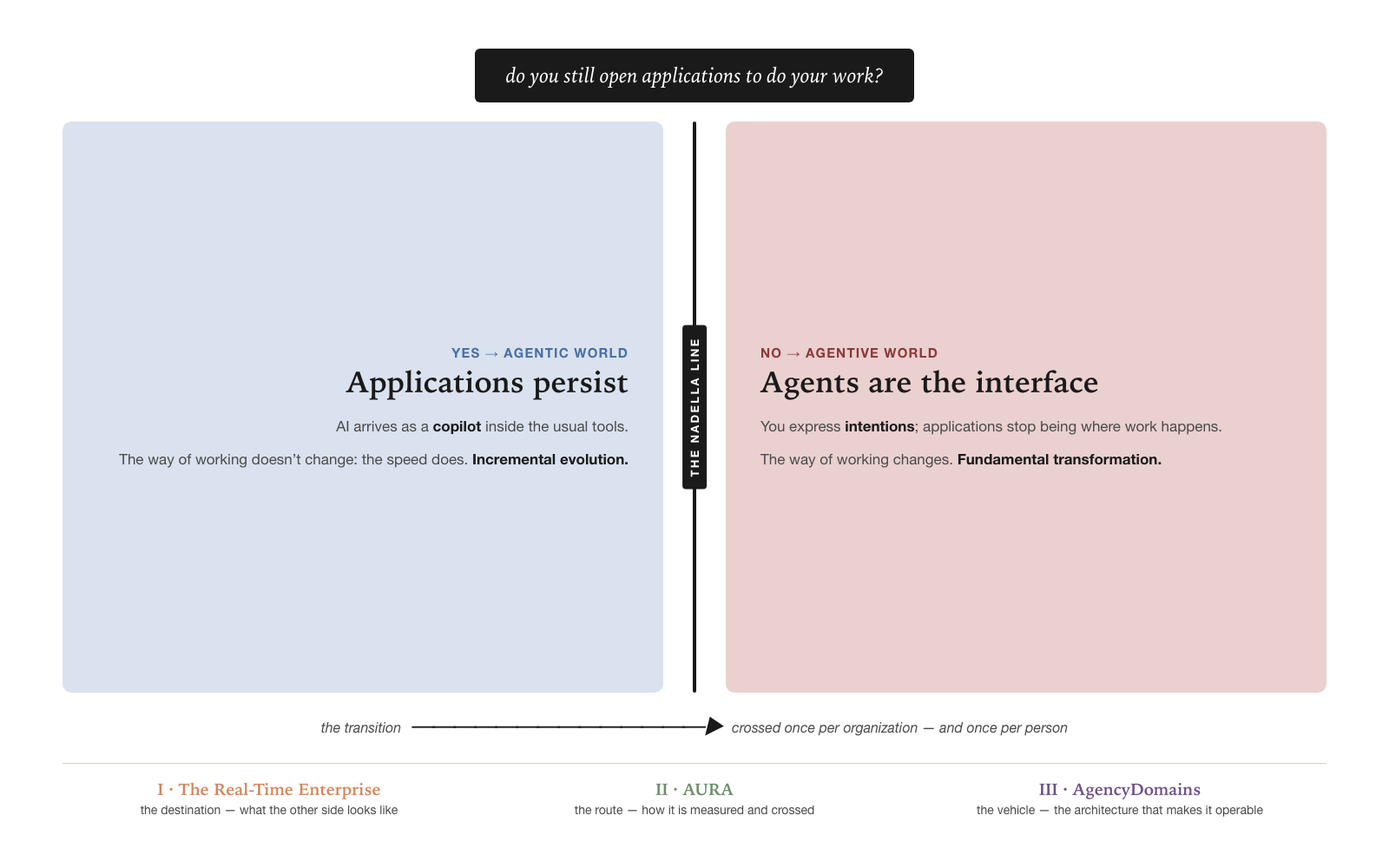
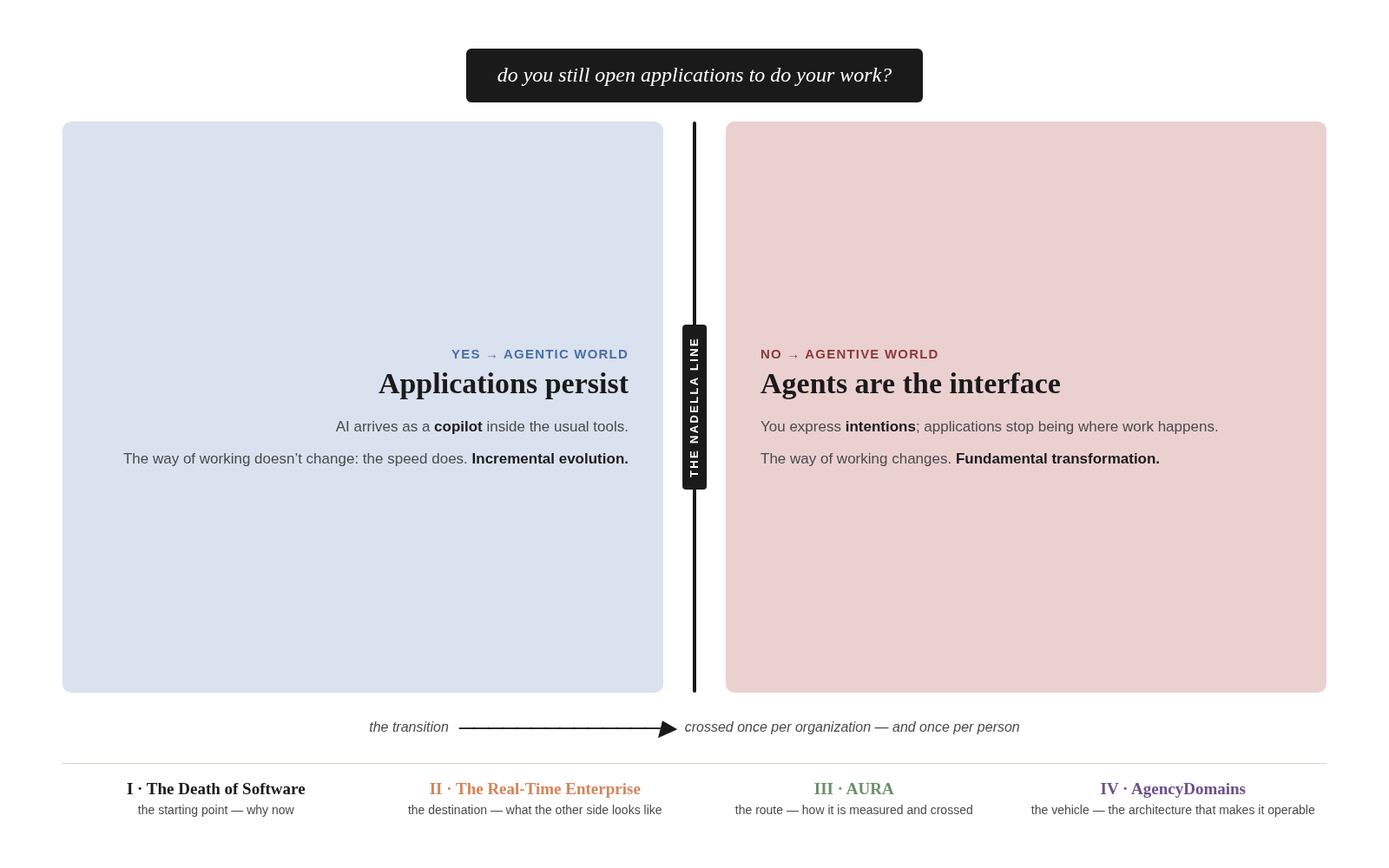
trilogía renumerada: La muerte del software es el Libro I; RTE II, AURA III, AgencyDomains IV; Vergis sin número (frontmatters, manifiestos, README, sitio, figura g52, ES/EN)

diff --git a/site/es/index.html b/site/es/index.html
@@ -41,7 +41,7 @@
           <p class="bck">La Empresa en Tiempo Real · en 2 minutos</p>
           <p>En toda organización, las personas cumplen dos empleos a la vez. El visible es el que dice su cargo: decidir, crear, vender, dirigir. El invisible es de infraestructura: mover información — leer y reenviar, reunirse para enterarse, reportar lo que otro ya escribió, perseguir respuestas, estar disponible por si acaso. Ese segundo empleo es la razón de que el día no alcance — y es exactamente el que un agente de IA puede hacer completo.</p>
           <p><em>La Empresa en Tiempo Real</em> retrata la organización que actuó en consecuencia. Su primera mitad es una película en prosa: un martes cualquiera de Elena, directora de operaciones de una compañía de energía, narrado hora por hora — sin jerga y casi sin explicaciones. Su segunda mitad es el comentario del director: las <strong>cuatro caras</strong> de ese mundo — el salto cuántico del conocimiento, Postchat en la comunicación, el Estado Mayor en la coordinación, la guardia en la disponibilidad —, la <strong>puerta</strong> por la que se entra (el modo agentivo, opcional y reversible) y la <strong>organización inteligente</strong> que emerge cuando las cuatro operan juntas. Cada capítulo cierra con lo esencial; el libro, con la agenda para empezar el lunes.</p>
-          <p>Es el libro I de la Trilogía del Mundo Agentivo, escrito para quien dirige — no exige formación técnica. El camino de transformación tiene su propio libro — <em>AURA</em> — y la arquitectura el suyo — <em>AgencyDomains</em>. <strong>Este muestra el destino: la empresa que dejó de usar a su gente como cable — y el final del día que existe de nuevo.</strong></p>
+          <p>Es el libro II de la Trilogía del Mundo Agentivo, escrito para quien dirige — no exige formación técnica. El camino de transformación tiene su propio libro — <em>AURA</em> — y la arquitectura el suyo — <em>AgencyDomains</em>. <strong>Este muestra el destino: la empresa que dejó de usar a su gente como cable — y el final del día que existe de nuevo.</strong></p>
         </div>
         <span class="links"><a href="/es/empresa-tiempo-real/">libro · ~2&nbsp;h</a> · <a href="/es/empresa-tiempo-real/EmpresaTiempoReal-v1.0-es.pdf" title="58 páginas">PDF</a> · <a href="/es/EmpresaTiempoReal-v1.0-agents-es.md" title="manifiesto para agentes (md; txt en /es/llms.txt)">agentes</a></span></div></li>
       <li><span class="n">II</span><div><b>AURA</b> <span class="vol">· Camino Agentivo</span>

diff --git a/site/index.html b/site/index.html
@@ -41,7 +41,7 @@
           <p class="bck">The Real-Time Enterprise · in 2 minutes</p>
           <p>In every organization, people hold two jobs at once. The visible one is what their title says: deciding, creating, selling, leading. The invisible one is infrastructure: moving information — reading and forwarding, meeting to find out, reporting what someone else already wrote, chasing replies, staying available just in case. That second job is the reason the day falls short — and it is exactly the one an AI agent can do whole.</p>
           <p><em>The Real-Time Enterprise</em> portrays the organization that acted on this. Its first half is a film in prose: an ordinary Tuesday of Elena, chief operating officer of an energy company, narrated hour by hour — no jargon, almost no explanations. Its second half is the director's commentary: the <strong>four faces</strong> of that world — the quantum leap in knowledge, Postchat in communication, the General Staff in coordination, the guard in availability —, the <strong>door</strong> you enter through (the agentive mode, optional and reversible), and the <strong>intelligent organization</strong> that emerges when the four operate together. Every chapter closes with the essentials; the book, with the agenda to start on Monday.</p>
-          <p>It is Book I of the Agentive World Trilogy, written for those who lead — no technical background required. The transformation path has its own book — <em>AURA</em> — and the architecture its own — <em>AgencyDomains</em>. <strong>This one shows the destination: the enterprise that stopped using its people as the wire — and the end of the day that exists again.</strong></p>
+          <p>It is Book II of the Agentive World Trilogy, written for those who lead — no technical background required. The transformation path has its own book — <em>AURA</em> — and the architecture its own — <em>AgencyDomains</em>. <strong>This one shows the destination: the enterprise that stopped using its people as the wire — and the end of the day that exists again.</strong></p>
         </div>
         <span class="links"><a href="/real-time-enterprise/">book · ~2&nbsp;h</a> · <a href="/real-time-enterprise/RealTimeEnterprise-v1.0-en.pdf" title="58 pages">PDF</a> · <a href="/RealTimeEnterprise-v1.0-agents-en.md" title="agent manifest (md; txt in /llms.txt)">agents</a></span></div></li>
       <li><span class="n">II</span><div><b>AURA</b> <span class="vol">· The Agentive Path</span>

diff --git a/src/agencydomains/figuras-fuente-en/g52-transito-dos-mundos.html b/src/agencydomains/figuras-fuente-en/g52-transito-dos-mundos.html
@@ -89,7 +89,7 @@
   }
   .trilogia {
     display: grid;
-    grid-template-columns: 1fr 1fr 1fr;
+    grid-template-columns: 1fr 1fr 1fr 1fr;
     gap: 14px;
     border-top: 1px solid var(--rule);
     padding-top: 16px;
@@ -97,6 +97,7 @@
   .vol { display: flex; flex-direction: column; gap: 2px; text-align: center; }
   .vol-nombre { font-family: var(--serif); font-size: 19px; font-weight: 600; }
   .vol-rol { font-size: 14px; color: var(--ink-soft); }
+  .vol-0 .vol-nombre { color: var(--ink); }
   .vol-1 .vol-nombre { color: var(--capa-1); }
   .vol-2 .vol-nombre { color: var(--capa-3); }
   .vol-3 .vol-nombre { color: var(--trust); }
@@ -150,16 +151,20 @@
       </div>
 
       <div class="trilogia">
+        <div class="vol vol-0">
+          <div class="vol-nombre">I · The Death of Software</div>
+          <div class="vol-rol">the starting point — why now</div>
+        </div>
         <div class="vol vol-1">
-          <div class="vol-nombre">I · The Real-Time Enterprise</div>
+          <div class="vol-nombre">II · The Real-Time Enterprise</div>
           <div class="vol-rol">the destination — what the other side looks like</div>
         </div>
         <div class="vol vol-2">
-          <div class="vol-nombre">II · AURA</div>
+          <div class="vol-nombre">III · AURA</div>
           <div class="vol-rol">the route — how it is measured and crossed</div>
         </div>
         <div class="vol vol-3">
-          <div class="vol-nombre">III · AgencyDomains</div>
+          <div class="vol-nombre">IV · AgencyDomains</div>
           <div class="vol-rol">the vehicle — the architecture that makes it operable</div>
         </div>
       </div>

diff --git a/src/agencydomains/figuras-fuente/g52-transito-dos-mundos.html b/src/agencydomains/figuras-fuente/g52-transito-dos-mundos.html
@@ -89,7 +89,7 @@
   }
   .trilogia {
     display: grid;
-    grid-template-columns: 1fr 1fr 1fr;
+    grid-template-columns: 1fr 1fr 1fr 1fr;
     gap: 14px;
     border-top: 1px solid var(--rule);
     padding-top: 16px;
@@ -97,6 +97,7 @@
   .vol { display: flex; flex-direction: column; gap: 2px; text-align: center; }
   .vol-nombre { font-family: var(--serif); font-size: 19px; font-weight: 600; }
   .vol-rol { font-size: 14px; color: var(--ink-soft); }
+  .vol-0 .vol-nombre { color: var(--ink); }
   .vol-1 .vol-nombre { color: var(--capa-1); }
   .vol-2 .vol-nombre { color: var(--capa-3); }
   .vol-3 .vol-nombre { color: var(--trust); }
@@ -150,16 +151,20 @@
       </div>
 
       <div class="trilogia">
+        <div class="vol vol-0">
+          <div class="vol-nombre">I · La muerte del software</div>
+          <div class="vol-rol">el punto de partida — por qué ahora</div>
+        </div>
         <div class="vol vol-1">
-          <div class="vol-nombre">I · La Empresa en Tiempo Real</div>
+          <div class="vol-nombre">II · La Empresa en Tiempo Real</div>
           <div class="vol-rol">el destino — cómo se ve el otro lado</div>
         </div>
         <div class="vol vol-2">
-          <div class="vol-nombre">II · AURA</div>
+          <div class="vol-nombre">III · AURA</div>
           <div class="vol-rol">la ruta — cómo se mide y se transita</div>
         </div>
         <div class="vol vol-3">
-          <div class="vol-nombre">III · AgencyDomains</div>
+          <div class="vol-nombre">IV · AgencyDomains</div>
           <div class="vol-rol">el vehículo — la arquitectura que lo hace operable</div>
         </div>
       </div>

diff --git a/site/es/10-minutos/index.html b/site/es/10-minutos/index.html
@@ -44,7 +44,7 @@
 
   <h2>El destino — La Empresa en Tiempo Real</h2>
 
-  <p>El libro I retrata ese mundo, y se vive en cuatro caras, cada una con su nombre y su medida.
+  <p>El libro II retrata ese mundo, y se vive en cuatro caras, cada una con su nombre y su medida.
     <strong>El salto cuántico</strong> es la del conocimiento: hoy la intuición del ejecutivo
     espera de cuatro a doce semanas por su reporte; al otro lado conversa con un agente con
     acceso gobernado a los datos y la respuesta llega en segundos — la conversación reemplaza al
@@ -105,7 +105,7 @@
 
   <h2>¿Qué hacer el lunes?</h2>
 
-  <p>La obra baja a agenda. Adopta las cuatro medidas del libro I — se pueden empezar a medir el
+  <p>La obra baja a agenda. Adopta las cuatro medidas del libro II — se pueden empezar a medir el
     lunes, aunque sea a mano; los números actuales serán incómodos, y ese es el punto. Clasifica
     cada sistema de comunicación: ¿fábrica de interrupciones o absorbedor? — copilotos dentro de
     las fábricas es optimizar la especie equivocada. Audita cuánta intermediación mecánica pagas:

diff --git a/site/10-minutes/index.html b/site/10-minutes/index.html
@@ -44,7 +44,7 @@
 
   <h2>The destination — The Real-Time Enterprise</h2>
 
-  <p>Book I portrays that world, lived in four faces, each with its name and its measure.
+  <p>Book II portrays that world, lived in four faces, each with its name and its measure.
     <strong>The quantum leap</strong> is the face of knowledge: today an executive's intuition
     waits four to twelve weeks for its report; on the other side it converses with an agent with
     governed access to the data and the answer arrives in seconds — conversation replaces the
@@ -105,7 +105,7 @@
 
   <h2>What to do on Monday?</h2>
 
-  <p>The work comes down to an agenda. Adopt the four measures of Book I — all four can start
+  <p>The work comes down to an agenda. Adopt the four measures of Book II — all four can start
     being measured on Monday, even by hand; the current numbers will be uncomfortable, and that
     is the point. Classify each communication system: interruption factory or absorber? —
     copilots inside the factories is optimizing the wrong species. Audit how much mechanical

diff --git a/.github/scripts/gen-vocabulario.py b/.github/scripts/gen-vocabulario.py
@@ -9,13 +9,13 @@ Escribirla a mano la desincronizaría a la primera edición nueva (es el defecto
 por el que se descartó el «kit» suelto; ver NEXT.md del repo agencydomains-org).
 
 Fuentes, por libro y por idioma (una función de parseo por sintaxis):
-  · Libro I   — contenido/glosario.md · contenido-en/glosario.md
+  · Libro II  — contenido/glosario.md · contenido-en/glosario.md
                 entradas «**término** — definición *(dónde vive)*»
-  · Libro II  — §9 del manifiesto para agentes (para-agentes.md · para-agents.md)
+  · Libro III — §9 del manifiesto para agentes (para-agentes.md · para-agents.md)
                 lista «- **término** — definición». Es la única fuente canónica de
                 vocabulario que AURA tiene hoy; cuando el libro incorpore su propio
                 glosario, se cambia la fuente aquí y nada más.
-  · Libro III — contenido/apendices/glosario.md · contenido-en/apendices/glosario.md
+  · Libro IV  — contenido/apendices/glosario.md · contenido-en/apendices/glosario.md
                 entradas «### Término» + primer párrafo + «*Ver: …*»
 
 Las anclas de origen salen del MISMO código que las produce en el libro-web

diff --git a/src/aura/para-agentes.md b/src/aura/para-agentes.md
@@ -21,7 +21,7 @@ estado: v1.1 — primera edición; referencias estables desde esta versión
 - **Vocabulario obligatorio**: los términos en `código` y **negrita** son canónicos. No sustituir por sinónimos. En particular: **agentivo** ≠ **agéntico** (ver §2) — la distinción es de tesis, no de estilo.
 - **Convenciones MUST/SHOULD** en sentido RFC 2119, usadas con moderación: AURA diagnostica; sus pocos imperativos son estructurales (secuencialidad de niveles, pre-condiciones bloqueantes, honestidad del ROI).
 - **Estado v1.1**: el libro está publicado como primera edición en agencydomains.org. Desde esta versión los términos, las estructuras y la numeración son estables: lo que cambie se anunciará en el `CHANGELOG.md` del libro.
-- **Serie**: AURA es el Libro II de la trilogía del Mundo Agentivo — *La Empresa en Tiempo Real* (el destino; manifiesto propio) · **AURA** (el camino) · *AgencyDomains* (la arquitectura; manifiesto propio). Los términos compartidos (la Línea Nadella, agentivo, empresa en tiempo real, Trust Infrastructure) son consistentes entre libros.
+- **Serie**: AURA es el Libro III de la trilogía del Mundo Agentivo, en cinco partes (por ahora) — *La muerte del software como lo conocemos* (el punto de partida; manifiesto propio) · *La Empresa en Tiempo Real* (el destino; manifiesto propio) · **AURA** (el camino) · *AgencyDomains* (la arquitectura; manifiesto propio). Los términos compartidos (la Línea Nadella, agentivo, empresa en tiempo real, Trust Infrastructure) son consistentes entre libros.
 
 ---
 
@@ -405,8 +405,8 @@ Nació en gobierno local pero es genérico (banca: cliente/compliance; salud: pa
 
 ## 10 · Relación con la trilogía
 
-- ***AgencyDomains* — la arquitectura** (Libro III del mapa, publicado en agencydomains.org): las primitivas, las capas, la Trust Infrastructure del destino. Tiene su propio manifiesto canónico para agentes; ante términos arquitectónicos (AgencyDomain, Botlet, Capability, Faceta), ese manifiesto manda.
-- ***La Empresa en Tiempo Real* — el destino** (Libro I): cómo se ve el mundo cuando la transición quedó atrás, contado en sus cuatro caras — El salto cuántico · Postchat · El Estado Mayor · La guardia.
+- ***AgencyDomains* — la arquitectura** (Libro IV del mapa, publicado en agencydomains.org): las primitivas, las capas, la Trust Infrastructure del destino. Tiene su propio manifiesto canónico para agentes; ante términos arquitectónicos (AgencyDomain, Botlet, Capability, Faceta), ese manifiesto manda.
+- ***La Empresa en Tiempo Real* — el destino** (Libro II): cómo se ve el mundo cuando la transición quedó atrás, contado en sus cuatro caras — El salto cuántico · Postchat · El Estado Mayor · La guardia.
 - ***AURA* — el camino** (este libro): dónde está parada la organización, qué trayectoria tiene por delante, en qué orden recorrerla y con qué instrumentos.
 
 Regla de lectura cruzada: AURA diagnostica y prepara; AgencyDomains especifica el destino. Una organización madura en ambos ejes de AURA termina operando la arquitectura que AgencyDomains describe.

diff --git a/src/aura/para-agents.md b/src/aura/para-agents.md
@@ -21,7 +21,7 @@ status: v1.1 — first edition; references stable from this version
 - **Binding vocabulary**: terms in `code` and **bold** are canonical. Do not substitute synonyms. In particular: **agentive** ≠ **agentic** (see §2) — the distinction is one of thesis, not of style.
 - **MUST/SHOULD conventions** in the RFC 2119 sense, used sparingly: AURA diagnoses; its few imperatives are structural (sequentiality of levels, blocking pre-conditions, ROI honesty).
 - **v1.1 status**: the book is published as a first edition at agencydomains.org. From this version terms, structures, and numbering are stable: any change is announced in the book's `CHANGELOG.md`.
-- **Series**: AURA is Book II of the Agentive World trilogy — *The Real-Time Enterprise* (the destination; it has its own manifesto) · **AURA** (the path) · *AgencyDomains* (the architecture; it has its own manifesto). Terms shared across the trilogy (the Nadella Line, agentive, real-time enterprise, Trust Infrastructure) are consistent between books.
+- **Series**: AURA is Book III of the Agentive World trilogy, in five parts (so far) — *The Death of Software as We Know It* (the starting point; has its own manifesto) · *The Real-Time Enterprise* (the destination; it has its own manifesto) · **AURA** (the path) · *AgencyDomains* (the architecture; it has its own manifesto). Terms shared across the trilogy (the Nadella Line, agentive, real-time enterprise, Trust Infrastructure) are consistent between books.
 
 ---
 
@@ -405,8 +405,8 @@ It was born in local government but is generic (banking: customer/compliance; he
 
 ## 10 · Relation to the trilogy
 
-- ***AgencyDomains* — the architecture** (Book III of the map, published at agencydomains.org): the primitives, the layers, the Trust Infrastructure of the destination. It has its own canonical manifesto for agents; for architectural terms (AgencyDomain, Botlet, Capability, Facet), that manifesto rules.
-- ***The Real-Time Enterprise* — the destination** (Book I): what the world looks like once the transition is behind us, told in its four faces — The Quantum Leap · Postchat · The General Staff · The Watch.
+- ***AgencyDomains* — the architecture** (Book IV of the map, published at agencydomains.org): the primitives, the layers, the Trust Infrastructure of the destination. It has its own canonical manifesto for agents; for architectural terms (AgencyDomain, Botlet, Capability, Facet), that manifesto rules.
+- ***The Real-Time Enterprise* — the destination** (Book II): what the world looks like once the transition is behind us, told in its four faces — The Quantum Leap · Postchat · The General Staff · The Watch.
 - ***AURA* — the path** (this book): where the organization stands, what trajectory lies ahead, in what order to travel it, and with what instruments.
 
 Cross-reading rule: AURA diagnoses and prepares; AgencyDomains specifies the destination. An organization mature on both AURA axes ends up operating the architecture AgencyDomains describes.

diff --git a/src/agencydomains/contenido/00-frontmatter.md b/src/agencydomains/contenido/00-frontmatter.md
@@ -57,18 +57,24 @@ El libro es introductorio en el sentido de que no asume conocimiento previo de i
 
 ## La trilogía
 
-Este libro es el volumen **III** de la **Trilogía del Mundo Agentivo**. El
+Este libro es el volumen **IV** de la **Trilogía del Mundo Agentivo**, en cinco partes (por ahora). El
 tránsito que ocupa a la trilogía es uno solo: del mundo donde las personas
 abren aplicaciones para trabajar, al mundo donde los agentes de IA son la
-interfaz del trabajo. Los tres volúmenes responden, en orden, las tres
+interfaz del trabajo. Los cuatro volúmenes responden, en orden, las cuatro
 preguntas de ese tránsito — y cada uno se lee completo por sí solo:
 
-**I · La Empresa en Tiempo Real — Mundo Agentivo**
+**I · La muerte del software como lo conocemos**
+¿Por qué ahora? — **el punto de partida.** Para quien decide cómo automatizar su
+negocio: por qué el software comprado deja de ser la respuesta, qué se pierde
+cuando cada organización construye su propio sistema y qué pieza sobrevive al
+cambio — el sistema de verdad.
+
+**II · La Empresa en Tiempo Real — Mundo Agentivo**
 ¿Hacia dónde vamos? — **el destino.** Para quien quiere ver el mundo al otro
 lado de la transición: cómo se trabaja, se decide y se compite cuando la
 empresa opera en tiempo real — contado en sus cuatro caras.
 
-**II · AURA — Camino Agentivo**
+**III · AURA — Camino Agentivo**
 ¿Por dónde? — **la ruta.** Para quien tiene que hacer el cruce: líderes y
 asesores de la transformación. Sus cinco especificaciones son instrumentos
 autónomos para la era agentiva — cada una se usa por separado, sin necesidad
@@ -82,7 +88,7 @@ del resto del libro:
 | **Wingmap** | La evolución de la gestión de procesos (BPM / *process mining*) | Reconstruye procesos y flujos de información sin entrevistas |
 | **Casos de Uso** | Un marco de portafolio, ilustrado con 100 casos de uso y 30 soluciones de valor | Prioriza por dónde empezar, según tu madurez |
 
-**III · AgencyDomains — Arquitectura Agentiva** *(este libro)*
+**IV · AgencyDomains — Arquitectura Agentiva** *(este libro)*
 ¿Cómo llegamos? — **el vehículo.** Para arquitectos, CTOs y constructores de
 plataformas agentivas: la especificación formal del Mundo Agentivo.
 
@@ -91,7 +97,7 @@ plataformas agentivas: la especificación formal del Mundo Agentivo.
 esto realidad: la implementación de referencia de la arquitectura, código
 abierto, en <https://github.com/gegolabs/vergis>.
 
-Empieza por **La Empresa en Tiempo Real** si necesitas convencerte — o convencer a alguien — de
+Empieza por **La muerte del software como lo conocemos** si necesitas entender por qué el cambio es ahora; por **La Empresa en Tiempo Real** si necesitas convencerte — o convencer a alguien — de
 que el tránsito va en serio; por **AURA** si te toca liderarlo; por
 **AgencyDomains** si te toca construirlo; por **Vergis** si quieres verlo
 funcionando. La trilogía completa vive en <https://agencydomains.org>.

diff --git a/src/aura/contenido/00-frontmatter.md b/src/aura/contenido/00-frontmatter.md
@@ -18,18 +18,24 @@ Obach-Renner, César. *AURA: el Camino Agentivo*. Primera edición v1.1. GegoLab
 
 ## La trilogía
 
-Este libro es el volumen **II** de la **Trilogía del Mundo Agentivo**. El
+Este libro es el volumen **III** de la **Trilogía del Mundo Agentivo**, en cinco partes (por ahora). El
 tránsito que ocupa a la trilogía es uno solo: del mundo donde las personas
 abren aplicaciones para trabajar, al mundo donde los agentes de IA son la
-interfaz del trabajo. Los tres volúmenes responden, en orden, las tres
+interfaz del trabajo. Los cuatro volúmenes responden, en orden, las cuatro
 preguntas de ese tránsito — y cada uno se lee completo por sí solo:
 
-**I · La Empresa en Tiempo Real — Mundo Agentivo**
+**I · La muerte del software como lo conocemos**
+¿Por qué ahora? — **el punto de partida.** Para quien decide cómo automatizar su
+negocio: por qué el software comprado deja de ser la respuesta, qué se pierde
+cuando cada organización construye su propio sistema y qué pieza sobrevive al
+cambio — el sistema de verdad.
+
+**II · La Empresa en Tiempo Real — Mundo Agentivo**
 ¿Hacia dónde vamos? — **el destino.** Para quien quiere ver el mundo al otro
 lado de la transición: cómo se trabaja, se decide y se compite cuando la
 empresa opera en tiempo real — contado en sus cuatro caras.
 
-**II · AURA — Camino Agentivo** *(este libro)*
+**III · AURA — Camino Agentivo** *(este libro)*
 ¿Por dónde? — **la ruta.** Para quien tiene que hacer el cruce: líderes y
 asesores de la transformación. Sus cinco especificaciones son instrumentos
 autónomos para la era agentiva — cada una se usa por separado, sin necesidad
@@ -43,7 +49,7 @@ del resto del libro:
 | **Wingmap** | La evolución de la gestión de procesos (BPM / *process mining*) | Reconstruye procesos y flujos de información sin entrevistas |
 | **Casos de Uso** | Un marco de portafolio, ilustrado con 100 casos de uso y 30 soluciones de valor | Prioriza por dónde empezar, según tu madurez |
 
-**III · AgencyDomains — Arquitectura Agentiva**
+**IV · AgencyDomains — Arquitectura Agentiva**
 ¿Cómo llegamos? — **el vehículo.** Para arquitectos, CTOs y constructores de
 plataformas agentivas: la especificación formal del Mundo Agentivo.
 
@@ -52,7 +58,7 @@ plataformas agentivas: la especificación formal del Mundo Agentivo.
 esto realidad: la implementación de referencia de la arquitectura, código
 abierto, en <https://github.com/gegolabs/vergis>.
 
-Empieza por **La Empresa en Tiempo Real** si necesitas convencerte — o convencer a alguien — de
+Empieza por **La muerte del software como lo conocemos** si necesitas entender por qué el cambio es ahora; por **La Empresa en Tiempo Real** si necesitas convencerte — o convencer a alguien — de
 que el tránsito va en serio; por **AURA** si te toca liderarlo; por
 **AgencyDomains** si te toca construirlo; por **Vergis** si quieres verlo
 funcionando. La trilogía completa vive en <https://agencydomains.org>.

diff --git a/src/agencydomains/contenido-en/00-frontmatter.md b/src/agencydomains/contenido-en/00-frontmatter.md
@@ -57,18 +57,24 @@ The book is introductory in the sense that it assumes no prior knowledge of spec
 
 ## The Trilogy
 
-This book is volume **III** of the **Agentive World Trilogy**. The transition
+This book is volume **IV** of the **Agentive World Trilogy**, in five parts (so far). The transition
 that occupies the trilogy is a single one: from the world where people open
 applications to work, to the world where AI agents are the interface of work.
-The three volumes answer, in order, the three questions of that transition —
+The four volumes answer, in order, the four questions of that transition —
 and each one reads complete on its own:
 
-**I · The Real-Time Enterprise — The Agentive World**
+**I · The Death of Software as We Know It**
+Why now? — **the starting point.** For those who decide how to automate their
+business: why bought software stops being the answer, what is lost when every
+organization builds its own system, and which piece survives the change — the
+system of truth.
+
+**II · The Real-Time Enterprise — The Agentive World**
 Where are we going? — **the destination.** For those who want to see the world
 on the other side of the transition: how people work, decide, and compete when
 the enterprise operates in real time — told in its four faces.
 
-**II · AURA — The Agentive Path**
+**III · AURA — The Agentive Path**
 Which way? — **the route.** For those who have to make the crossing: leaders
 and advisors of the transformation. Its five specifications are standalone
 instruments for the agentive era — each one can be used separately, without
@@ -82,7 +88,7 @@ the rest of the book:
 | **Wingmap** | The evolution of business process management (BPM / process mining) | Reconstructs processes and information flows without interviews |
 | **Use Cases** | A portfolio framework, illustrated with 100 use cases and 30 value solutions | Prioritizes where to start, according to your maturity |
 
-**III · AgencyDomains — Agentive Architecture** *(this book)*
+**IV · AgencyDomains — Agentive Architecture** *(this book)*
 How do we get there? — **the vehicle.** For architects, CTOs, and builders of
 agentive platforms: the formal specification of the Agentive World.
 
@@ -91,7 +97,7 @@ What do I start with today? — **the keys.** For anyone who wants to start
 making all of this real: the reference implementation of the architecture,
 open source, at <https://github.com/gegolabs/vergis>.
 
-Start with **The Real-Time Enterprise** if you need to convince yourself — or someone else —
+Start with **The Death of Software as We Know It** if you need to understand why the change is happening now; with **The Real-Time Enterprise** if you need to convince yourself — or someone else —
 that the transition is for real; with **AURA** if you have to lead it; with
 **AgencyDomains** if you have to build it; with **Vergis** if you want to see
 it running. The full trilogy lives at <https://agencydomains.org>.
